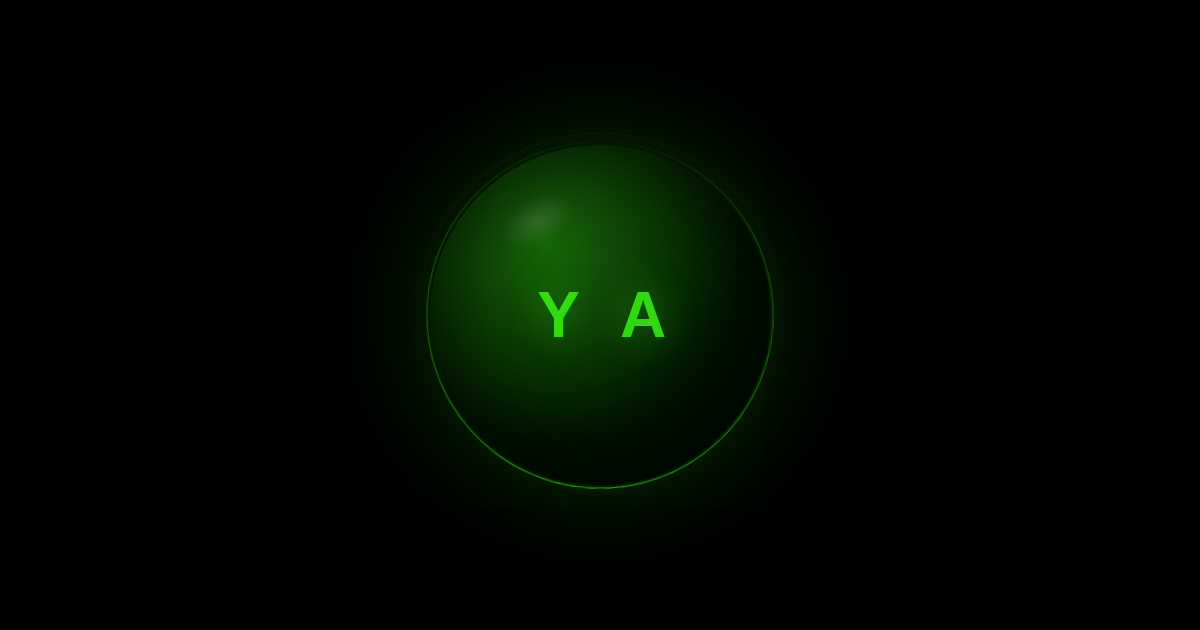
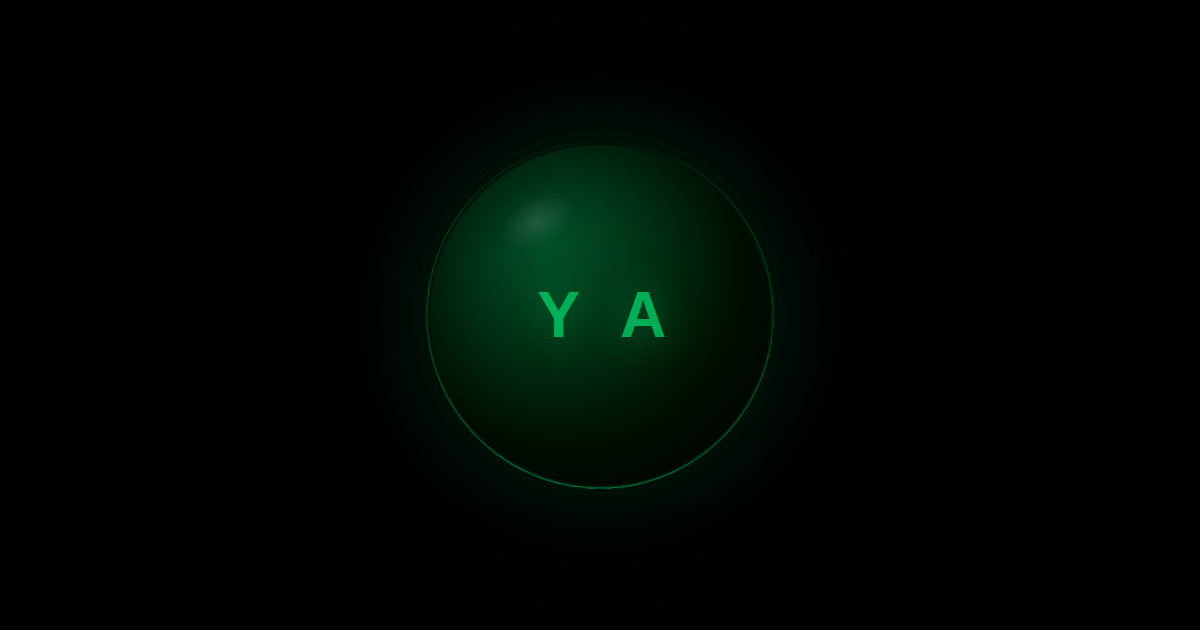
fix: dark emerald green accent (#006b3d / #00cc66)

Changed region(s): [[0.4008, 0.3317, 0.555, 0.5429]]

diff --git a/scripts/generate-pdf.js b/scripts/generate-pdf.js
@@ -24,15 +24,15 @@ const html = `<!DOCTYPE html>
     gap: 20px;
     align-items: center;
     padding-bottom: 14px;
-    border-bottom: 3px solid #00bb00;
+    border-bottom: 3px solid #006b3d;
     margin-bottom: 14px;
   }
   .header-content { flex: 1; }
   .header h1 { font-size: 26px; color: #000; margin: 0; }
-  .header .title { font-size: 15px; color: #00bb00; font-weight: 600; margin: 3px 0; }
+  .header .title { font-size: 15px; color: #006b3d; font-weight: 600; margin: 3px 0; }
   .header .contact { font-size: 11px; color: #000; display: flex; flex-wrap: wrap; gap: 14px; margin-top: 5px; }
   .header .contact a { color: #000; text-decoration: none; border-bottom: 1px solid #ccc; }
-  .photo { width: 72px; height: 72px; border-radius: 50%; overflow: hidden; border: 2px solid #00bb00; flex-shrink: 0; }
+  .photo { width: 72px; height: 72px; border-radius: 50%; overflow: hidden; border: 2px solid #006b3d; flex-shrink: 0; }
   .photo img { width: 100%; height: 100%; object-fit: cover; display: block; }
   .summary { font-size: 12px; color: #000; margin-bottom: 14px; line-height: 1.45; }
   .section { margin-bottom: 12px; }
@@ -40,11 +40,11 @@ const html = `<!DOCTYPE html>
     font-size: 13px; font-weight: 700; text-transform: uppercase; letter-spacing: 0.5px;
     display: flex; align-items: center; gap: 7px; margin-bottom: 7px; color: #000;
   }
-  .section-title .bar { width: 4px; height: 15px; background: #00bb00; border-radius: 2px; display: inline-block; }
+  .section-title .bar { width: 4px; height: 15px; background: #006b3d; border-radius: 2px; display: inline-block; }
   .exp-item { margin-bottom: 8px; }
   .exp-header { display: flex; align-items: baseline; gap: 6px; flex-wrap: wrap; }
   .exp-header h3 { font-size: 13px; font-weight: 700; color: #000; }
-  .exp-company { font-size: 11px; color: #00bb00; font-weight: 600; }
+  .exp-company { font-size: 11px; color: #006b3d; font-weight: 600; }
   .exp-period { font-size: 10px; color: #000; margin-left: auto; white-space: nowrap; }
   .exp-desc { font-size: 11px; color: #000; margin-top: 2px; line-height: 1.4; }
   .exp-points { margin: 4px 0 0 16px; }
@@ -52,7 +52,7 @@ const html = `<!DOCTYPE html>
   .edu-item { margin-bottom: 6px; }
   .edu-header { display: flex; align-items: baseline; gap: 6px; flex-wrap: wrap; }
   .edu-header h3 { font-size: 13px; font-weight: 700; color: #000; }
-  .edu-school { font-size: 11px; color: #00bb00; font-weight: 600; }
+  .edu-school { font-size: 11px; color: #006b3d; font-weight: 600; }
   .edu-period { font-size: 10px; color: #000; margin-left: auto; white-space: nowrap; }
   .edu-desc { font-size: 11px; color: #000; margin-top: 2px; }
   .skills-grid { display: grid; grid-template-columns: 1fr 1fr; gap: 5px 20px; }

diff --git a/scripts/generate-og.js b/scripts/generate-og.js
@@ -19,10 +19,10 @@ const html = `<!DOCTYPE html>
     width: 340px; height: 340px;
     border-radius: 50%;
     position: relative;
-    background: radial-gradient(circle at 35% 30%, rgba(57,255,20,0.4), rgba(0,20,0,0.9) 60%, #000 100%);
+    background: radial-gradient(circle at 35% 30%, rgba(0,204,102,0.4), rgba(0,20,0,0.9) 60%, #000 100%);
     box-shadow:
-      0 0 100px rgba(57,255,20,0.15),
-      0 0 200px rgba(57,255,20,0.08),
+      0 0 100px rgba(0,204,102,0.15),
+      0 0 200px rgba(0,204,102,0.08),
       inset 0 0 80px rgba(0,0,0,0.5);
   }
 
@@ -31,7 +31,7 @@ const html = `<!DOCTYPE html>
     content: '';
     position: absolute; inset: -4px;
     border-radius: 50%;
-    background: conic-gradient(from 0deg, transparent, rgba(57,255,20,0.3), rgba(57,255,20,0.6), rgba(57,255,20,0.3), transparent);
+    background: conic-gradient(from 0deg, transparent, rgba(0,204,102,0.3), rgba(0,204,102,0.6), rgba(0,204,102,0.3), transparent);
     -webkit-mask: radial-gradient(farthest-side, transparent calc(100% - 2px), #fff calc(100% - 1px));
     mask: radial-gradient(farthest-side, transparent calc(100% - 2px), #fff calc(100% - 1px));
     animation: spin 4s linear infinite;
@@ -42,7 +42,7 @@ const html = `<!DOCTYPE html>
     content: '';
     position: absolute; inset: -12px;
     border-radius: 50%;
-    background: conic-gradient(from 180deg, transparent, rgba(57,255,20,0.1), rgba(57,255,20,0.3), rgba(57,255,20,0.1), transparent);
+    background: conic-gradient(from 180deg, transparent, rgba(0,204,102,0.1), rgba(0,204,102,0.3), rgba(0,204,102,0.1), transparent);
     -webkit-mask: radial-gradient(farthest-side, transparent calc(100% - 1px), #fff calc(100%));
     mask: radial-gradient(farthest-side, transparent calc(100% - 1px), #fff calc(100%));
     animation: spin 6s linear reverse infinite;
@@ -62,24 +62,24 @@ const html = `<!DOCTYPE html>
     position: absolute;
     font-family: 'Segoe UI', 'Helvetica Neue', Arial, sans-serif;
     font-size: 64px; font-weight: 800;
-    color: rgba(57,255,20,0.6);
-    text-shadow: 0 0 30px rgba(57,255,20,0.3);
+    color: rgba(0,204,102,0.6);
+    text-shadow: 0 0 30px rgba(0,204,102,0.3);
   }
 
   .y {
     top: 50%; left: 50%;
     transform: translate(-100%, -50%);
     margin-left: -20px;
-    color: rgba(57,255,20,0.8);
-    text-shadow: 0 0 40px rgba(57,255,20,0.4);
+    color: rgba(0,204,102,0.8);
+    text-shadow: 0 0 40px rgba(0,204,102,0.4);
   }
 
   .a {
     top: 50%; left: 50%;
     transform: translate(0, -50%);
     margin-left: 20px;
-    color: rgba(57,255,20,0.8);
-    text-shadow: 0 0 40px rgba(57,255,20,0.4);
+    color: rgba(0,204,102,0.8);
+    text-shadow: 0 0 40px rgba(0,204,102,0.4);
   }
 
   @keyframes spin {

diff --git a/src/app/globals.css b/src/app/globals.css
@@ -8,9 +8,9 @@
   --bg: #ffffff;
   --bg-alt: #f8f8fc;
   --border: #e2e2f0;
-  --accent: #00bb00;
-  --accent-hover: #009900;
-  --accent-bg: rgba(0, 187, 0, 0.1);
+  --accent: #006b3d;
+  --accent-hover: #005a2e;
+  --accent-bg: rgba(0, 107, 61, 0.1);
   --card-bg: #ffffff;
   --shadow: 0 1px 3px rgba(0, 0, 0, 0.08), 0 1px 2px rgba(0, 0, 0, 0.06);
   --shadow-lg: 0 10px 15px -3px rgba(0, 0, 0, 0.08), 0 4px 6px -2px rgba(0, 0, 0, 0.04);
@@ -22,9 +22,9 @@
   --bg: #0f0f15;
   --bg-alt: #16161e;
   --border: #2a2a35;
-  --accent: #33dd33;
-  --accent-hover: #66ff66;
-  --accent-bg: rgba(51, 221, 51, 0.12);
+  --accent: #00cc66;
+  --accent-hover: #33dd88;
+  --accent-bg: rgba(0, 204, 102, 0.12);
   --card-bg: #181820;
   --shadow: 0 1px 3px rgba(0, 0, 0, 0.3);
   --shadow-lg: 0 10px 15px -3px rgba(0, 0, 0, 0.4);
